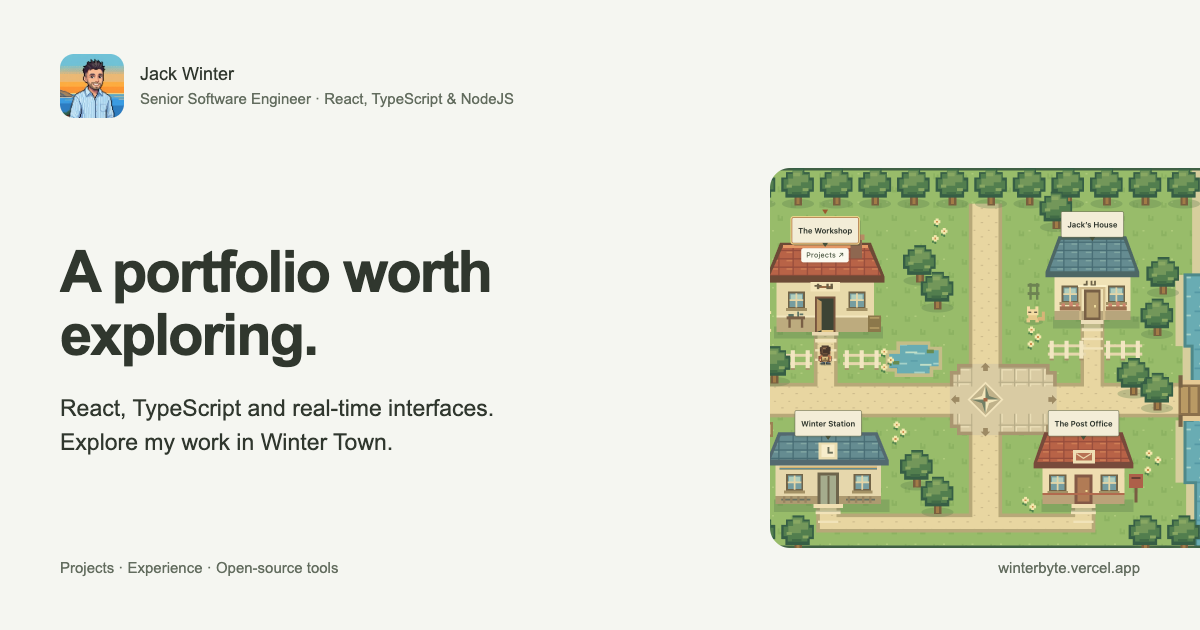
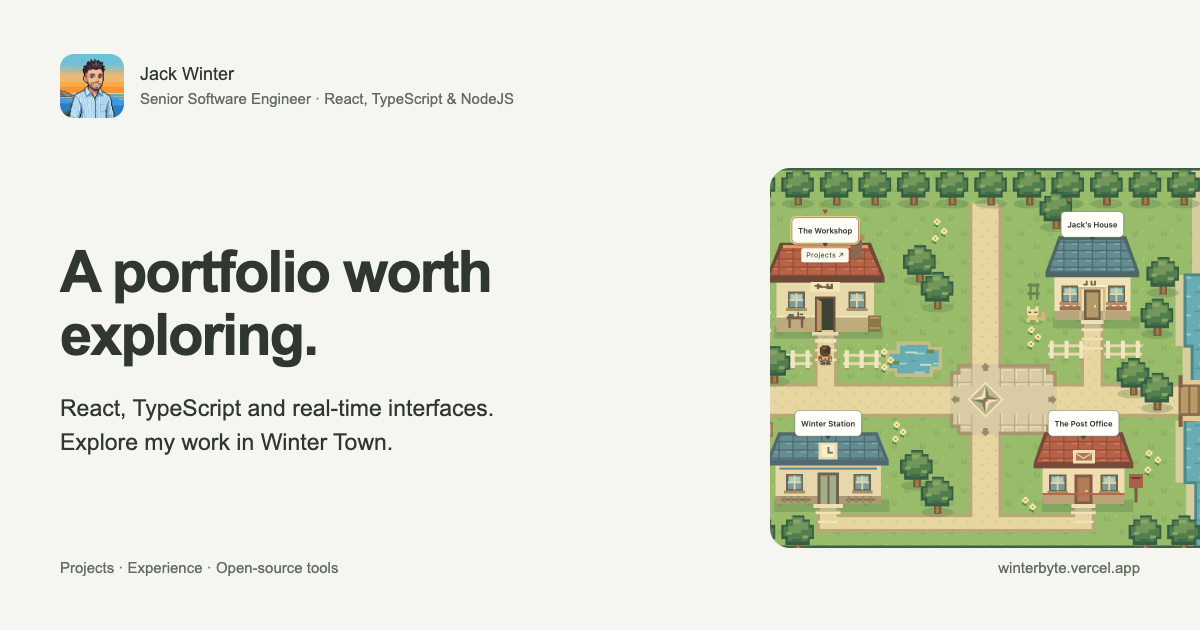
style: unify town controls, labels and room typography

diff --git a/src/components/town/town.css b/src/components/town/town.css
@@ -39,7 +39,7 @@
 }
 .world-shell {
   border: 1px solid var(--border-soft);
-  border-radius: 14px;
+  border-radius: var(--radius-panel);
   overflow: hidden;
   box-shadow: 0 8px 28px #2532240a;
   background: var(--surface);
@@ -78,7 +78,7 @@
   font-size: 13px;
   white-space: nowrap;
   min-height: 44px;
-  border-radius: 8px;
+  border-radius: var(--radius-control);
 }
 .world-toolbar button:hover {
   background: #e0e5d4;
@@ -105,7 +105,7 @@
   cursor: pointer;
   font-size: 13px;
   list-style: none;
-  border-radius: 8px;
+  border-radius: var(--radius-control);
 }
 .world-menu > summary::-webkit-details-marker {
   display: none;
@@ -249,9 +249,9 @@
   min-width: 0;
   min-height: 44px;
   padding: 7px 10px;
-  border: 1px solid #6d7154;
-  border-radius: 3px;
-  background: #f3edd7;
+  border: 1px solid #87917c;
+  border-radius: var(--radius-control);
+  background: var(--surface);
   box-shadow: 0 2px 3px #36472d30;
 }
 .town-label > span,
@@ -454,7 +454,7 @@
   gap: 20px;
   align-items: flex-start;
   border-bottom: 1px solid var(--border-soft);
-  padding-bottom: 22px;
+  padding-bottom: 20px;
   margin-bottom: 24px;
 }
 .eyebrow {
@@ -479,7 +479,7 @@
 }
 .back-to-town {
   min-height: 44px;
-  border-radius: 8px;
+  border-radius: var(--radius-control);
   margin-top: 24px;
   padding: 12px 18px;
   border: 1px solid var(--border-soft);
@@ -688,7 +688,7 @@
     bottom: 10px;
   }
   .dialog-body {
-    padding: 18px;
+    padding: 20px;
   }
   .dialog-header h2 {
     font-size: 23px;
@@ -783,7 +783,7 @@
 .share-content button {
   padding: 8px 12px;
   min-height: 44px;
-  border-radius: 8px;
+  border-radius: var(--radius-control);
   border: 1px solid var(--border-soft);
   background: var(--surface-muted);
 }
@@ -1018,7 +1018,7 @@
     min-height: 44px;
     padding: 8px 12px;
     border: 1px solid var(--border-soft);
-    border-radius: 8px;
+    border-radius: var(--radius-control);
     background: var(--surface-muted);
     font: 500 12px var(--font-ui);
   }

diff --git a/src/components/town/place-content.css b/src/components/town/place-content.css
@@ -21,16 +21,14 @@
   margin: 10px 0;
 }
 .place-content h4 {
-  font:
-    600 12px "JetBrains Mono",
-    monospace;
+  font: 600 14px/1.5 var(--font-ui);
   margin: 8px 0;
   color: #76553f;
 }
 .place-eyebrow {
   display: block;
-  font-size: 10px;
-  letter-spacing: 1.4px;
+  font-size: 11px;
+  letter-spacing: 0.04em;
   color: #776a53;
   margin-top: 22px;
 }
@@ -428,7 +426,7 @@
   min-height: 44px;
   padding: 10px 16px;
   border: 1px solid var(--border-soft);
-  border-radius: 8px;
+  border-radius: var(--radius-control);
   background: var(--surface-muted);
   font-size: 14px;
 }

diff --git a/src/components/town/interaction-feedback.css b/src/components/town/interaction-feedback.css
@@ -12,10 +12,9 @@
 }
 .scene-arrival span {
   padding: 12px 20px;
-  border-block: 2px solid #c4b37c;
-  font:
-    22px DotGothic16,
-    monospace;
+  border-radius: var(--radius-control);
+  background: #354b3d;
+  font: 600 22px var(--font-ui);
 }
 @keyframes room-arrival {
   from {

diff --git a/src/styles/global.css b/src/styles/global.css
@@ -1,5 +1,7 @@
 @import "tailwindcss";
 :root {
+  --radius-control: 8px;
+  --radius-panel: 14px;
   --font-ui: -apple-system, BlinkMacSystemFont, "Segoe UI", sans-serif;
   --surface: #fffefa;
   --surface-muted: #f0f2eb;

diff --git a/src/components/town/project-demo.css b/src/components/town/project-demo.css
@@ -84,7 +84,7 @@
 }
 .project-demo button {
   font-family: var(--font-ui);
-  border-radius: 7px;
+  border-radius: var(--radius-control);
   border: 1px solid #919d7c;
   background: #faf7e9;
   padding: 8px 12px;
